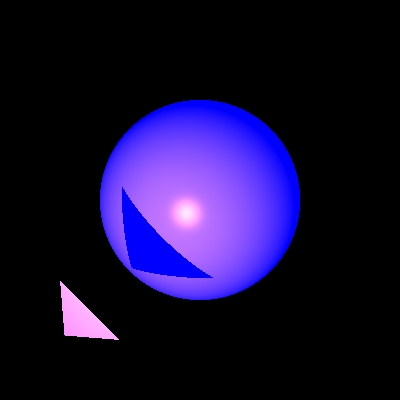
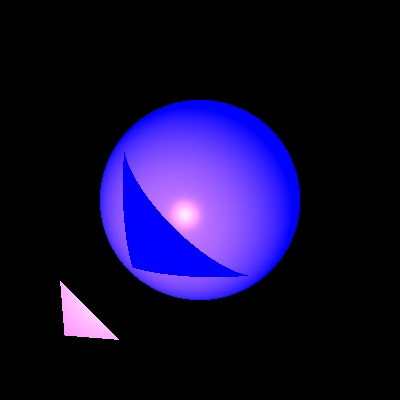
tik

Changed region(s): [[0.3, 0.39, 0.6, 0.72], [0.33, 0.66, 0.45, 0.69]]

diff --git a/src/unittests/shadowTests.java b/src/unittests/shadowTests.java
@@ -55,7 +55,7 @@ public class shadowTests {
 		scene.addGeometries(new Sphere(
 				 new Point3D(0, 0, 200),60,new Color(java.awt.Color.BLUE), new Material(0.5, 0.5, 30)), //
 				new Triangle(
-						new Point3D(-70, 40, 0), new Point3D(-40, 70, 0), new Point3D(-68, 68, 4),new Color(java.awt.Color.BLUE), new Material(0.5, 0.5, 30)));
+						 new Point3D(-60, 30, 0), new Point3D(-30, 60, 0), new Point3D(-58, 58, 4),new Color(java.awt.Color.BLUE), new Material(0.5, 0.5, 30)));
 
 		scene.addLights(new SpotLight(new Color(400, 240, 0), //
 				new Point3D(-100, 100, -200), 1, 1E-5, 1.5E-7, new Vector(1, -1, 3)));
@@ -76,11 +76,12 @@ public class shadowTests {
 		scene.setCamera(new Camera(new Point3D(0, 0, -1000), new Vector(0, 0, 1), new Vector(0, -1, 0)));
 		scene.setDistance(1000);
 		scene.setBackground(Color.BLACK);
+		//scene.setBackground(new Color(255, 255, 255));
 		scene.setAmbientLight(new AmbientLight(Color.BLACK, 0));
 
-		scene.addGeometries(new Sphere( new Point3D(0, 0, 200),60), //
-				new Triangle( 
-						new Point3D(-70, 40, 0), new Point3D(-40, 70, 0), new Point3D(-68, 68, 4),new Color(java.awt.Color.BLUE), new Material(0.5, 0.5, 30)));
+		scene.addGeometries(new Sphere( new Point3D(0, 0, 200),60, new Color(java.awt.Color.BLUE),
+                new Material(0.5, 0.5, 30)), //
+				new Triangle(new Point3D(-50, 20, 0), new Point3D(-20, 50, 0), new Point3D(-48, 48, 4),new Color(java.awt.Color.BLUE), new Material(0.5, 0.5, 30)));
 
 		scene.addLights(new SpotLight(new Color(400, 240, 0), //
 				new Point3D(-100, 100, -200),1, 1E-5, 1.5E-7, new Vector(1, -1, 3)));
@@ -103,7 +104,8 @@ public class shadowTests {
 		scene.setBackground(Color.BLACK);
 		scene.setAmbientLight(new AmbientLight(Color.BLACK, 0));
 
-		scene.addGeometries(new Sphere(  new Point3D(0, 0, 200),60), //
+		scene.addGeometries(new Sphere(  new Point3D(0, 0, 200),60, new Color(java.awt.Color.BLUE),
+                new Material(0.5, 0.5, 30)), //
 				new Triangle(
 						new Point3D(-70, 40, 0), new Point3D(-40, 70, 0), new Point3D(-68, 68, 4),new Color(java.awt.Color.BLUE), new Material(0.5, 0.5, 30)));
 
@@ -129,10 +131,10 @@ public class shadowTests {
 		scene.setAmbientLight(new AmbientLight(Color.BLACK, 0));
 
 		scene.addGeometries(new Sphere(new Point3D(0, 0, 200),60, new Color(java.awt.Color.BLUE), new Material(0.5, 0.5, 30)), //
-				new Triangle(new Point3D(-70, 40, 0), new Point3D(-40, 70, 0), new Point3D(-68, 68, 4),new Color(java.awt.Color.BLUE), new Material(0.5, 0.5, 30)));
+				new Triangle( new Point3D(-70, 40, 0), new Point3D(-40, 70, 0), new Point3D(-68, 68, 4),new Color(java.awt.Color.BLUE), new Material(0.5, 0.5, 30)));
 
 		scene.addLights(new SpotLight(new Color(400, 240, 0), //
-				new Point3D(-100, 100, -200), 1, 1E-5, 1.5E-7, new Vector(1, -1, 3)));
+				new Point3D(-88, 88, -120), 1, 1E-5, 1.5E-7,  new Vector(1, -1, 3)));
 
 		ImageWriter imageWriter = new ImageWriter("sphereTriangleSpot2", 200, 200, 400, 400);
 		Render render = new Render(imageWriter, scene);

diff --git a/src/unittests/DepthOfFieldTest.java b/src/unittests/DepthOfFieldTest.java
@@ -1,0 +1,46 @@
+package unittests;
+
+import static org.junit.jupiter.api.Assertions.*;
+
+import org.junit.jupiter.api.Test;
+
+import elements.AmbientLight;
+import elements.Camera;
+import elements.DirectionalLight;
+import elements.SpotLight;
+import geometries.Sphere;
+import geometries.Triangle;
+import primitives.Color;
+import primitives.Material;
+import primitives.Point3D;
+import primitives.Vector;
+import renderer.ImageWriter;
+import renderer.Render;
+import scene.Scene;
+
+class DepthOfFieldTest {
+
+	@Test
+	void test()
+	{
+		Scene scene = new Scene("Test scene");
+		scene.setCamera(new Camera(new Point3D(0, 0, -1000), new Vector(0, 0, 1), new Vector(0, -1, 0), 1, 1));
+		scene.setDistance(1000);
+		scene.setFocalPlane(1050);
+		scene.setBackground(new Color(0,0,0));
+		scene.setAmbientLight(new AmbientLight(new Color(java.awt.Color.WHITE), 0.15));
+		scene.addGeometries(
+				new Triangle(new Point3D(1500, 1500, 1500),new Point3D(-1500, -1500, 1500), new Point3D(670, -670, -3000),new Color(20, 20, 20), new Material(0, 0, 0, 0, 1)),
+				new Sphere(new Point3D(0, 0, 50), 50,new Color(java.awt.Color.BLUE), new Material(0.4, 0.3, 100, 0.3, 0)),
+				new Sphere(new Point3D(0, 0, 50),25,new Color(java.awt.Color.RED), new Material(0.5, 0.5, 100)));
+		scene.addLights(new SpotLight(new Color(700, 400, 400), //
+				new Point3D(60, -50, 0), 1, 4E-5, 2E-7, new Vector(0, 0, 1)),new DirectionalLight(new Color(500, 300, 0), new Vector(1, -1, 1)));
+
+		ImageWriter imageWriter = new ImageWriter("depth of field test", 200, 200, 600, 600);
+		Render render = new Render(imageWriter, scene);
+
+		render.renderImage();
+		render.writeToImage();
+	}
+
+}

diff --git a/src/geometries/Tube.java b/src/geometries/Tube.java
@@ -14,7 +14,7 @@ public class Tube extends RadialGeometry
 	/**
 	 * Ray 
 	 */
-	Ray _axisRay;
+	public Ray _axisRay;
 	
 	/**
 	 * 
@@ -24,7 +24,7 @@ public class Tube extends RadialGeometry
 	public Tube(Ray axisRay, double r)
 	{
 		super(r);
-		_axisRay = axisRay;
+		_axisRay = new Ray(axisRay);
 	} 
 
 	/**
@@ -36,8 +36,7 @@ public class Tube extends RadialGeometry
 	 */
 	public Tube(Ray axisRay, double r, Color color)
 	{
-		super(r);
-		_axisRay = axisRay;
+		this(axisRay, r);
 		super._emission = color;
 	}
 	/**

diff --git a/src/renderer/Render.java b/src/renderer/Render.java
@@ -385,7 +385,7 @@ public class Render
 	private double transparency(LightSource ls, Vector l, Vector n, GeoPoint geopoint)
 	{
 		Vector lDir = l.scale(-1);
-		Ray shadowRay = new Ray(geopoint.point, lDir, n);
+		Ray shadowRay = new Ray(geopoint.getPoint(), lDir, n);
 
 		List<GeoPoint> intersections = _scene.getGeometries().findIntersections(shadowRay);
 		

diff --git a/src/elements/SpotLight.java b/src/elements/SpotLight.java
@@ -47,8 +47,7 @@ public class SpotLight extends PointLight
 	 */
 	public SpotLight(Color intensity, Point3D position, double kC, double kL, double kQ, Vector direction) 
 	{
-		super(intensity, position, kC, kL, kQ);
-		_direction = new Vector(direction);
+		 this(intensity, position, direction, kC, kL, kQ, 1);
 	}
 	
 	/**

diff --git a/src/geometries/Plane.java b/src/geometries/Plane.java
@@ -86,7 +86,7 @@ public class Plane extends Geometry
 		_p = new Point3D(p);
 		_normal = new Vector(n);
 	}
-
+	
 	@Override
 	public Vector getNormal(Point3D p) {
 		// TODO Auto-generated method stub

diff --git a/src/geometries/Sphere.java b/src/geometries/Sphere.java
@@ -41,8 +41,7 @@ public class Sphere extends RadialGeometry
 	 */
 	public Sphere(Point3D c, double r, Color color)
 	{
-		super(r);
-		_center = c;
+		this(c, r);
 		super._emission = color;
 	}
 	/**
